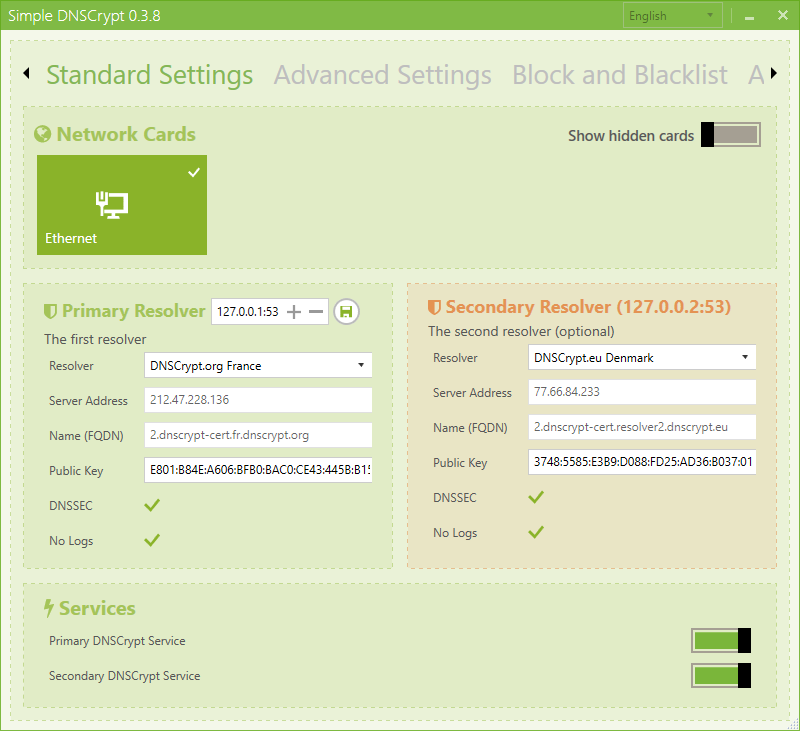
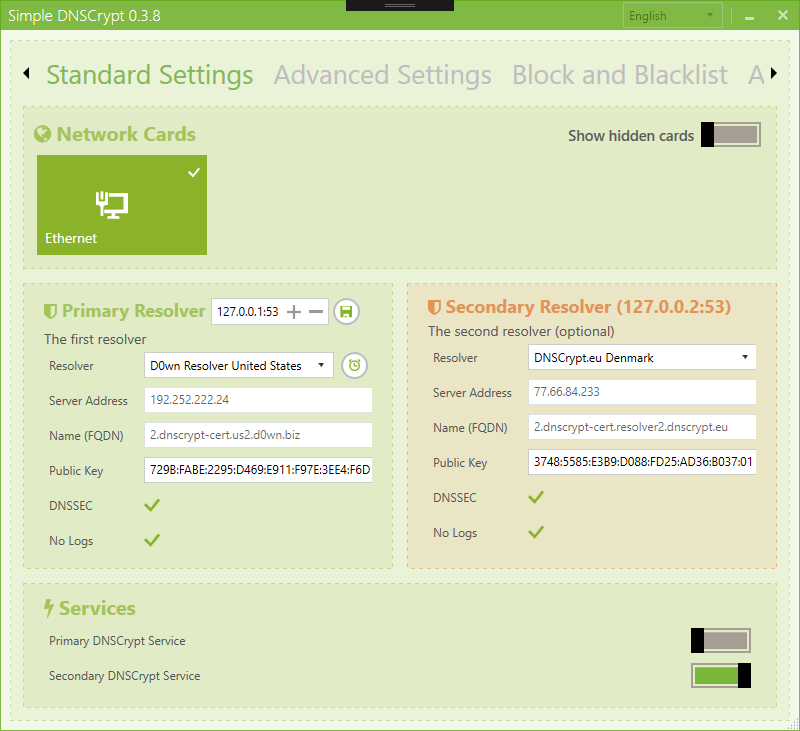
Add analyse option

diff --git a/SimpleDnsCrypt/Views/MainView.xaml b/SimpleDnsCrypt/Views/MainView.xaml
@@ -253,15 +253,27 @@
                                                        VerticalAlignment="Center"
                                                        HorizontalAlignment="Left">
                                                 </Label>
-                                                <ComboBox Grid.Row="0" Grid.Column="1" Width="230"
+                                                <ComboBox Grid.Row="0" Grid.Column="1" Width="190"
                                                           ToolTip="{Binding PrimaryResolver.FullName}"
                                                           ItemsSource="{Binding Resolvers}"
                                                           SelectedItem="{Binding PrimaryResolver}"
-                                                          IsEnabled="True"
-                                                          DisplayMemberPath="FullName"
+                                                          IsEnabled="{Binding IsAnalysing, Converter={StaticResource ReverseBoolToEnabledConverter}}"
+                                                          DisplayMemberPath="DisplayName"
                                                           Margin="0"
                                                           SelectedIndex="-1"
                                                           VerticalAlignment="Center" HorizontalAlignment="Left" />
+                                                <Button Background="#FFFFFFFF" Grid.Column="1" Grid.Row="0" Height="35"
+                                                    Width="35" VerticalAlignment="Top" Cursor="Hand" IsEnabled="{Binding IsAnalysing, Converter={StaticResource ReverseBoolToEnabledConverter}}" 
+                                                    x:Name="AnalyseResolvers" HorizontalAlignment="Right"
+                                                    ToolTip="{lex:Loc Key=default_settings_analyse_button_tooltip}"
+                                                    Style="{DynamicResource MetroCircleButtonStyle}">
+                                                    <Rectangle Fill="#FF8ab329" Width="12" Height="12">
+                                                        <Rectangle.OpacityMask>
+                                                            <VisualBrush Visual="{DynamicResource appbar_clock}"
+                                                                         Stretch="Fill" />
+                                                        </Rectangle.OpacityMask>
+                                                    </Rectangle>
+                                                </Button>
                                                 <Label Foreground="#FF575757" Grid.Row="1" Grid.Column="0"
                                                        Content="{lex:Loc Key=default_settings_server_address}"
                                                        VerticalAlignment="Center"
@@ -396,8 +408,8 @@
                                                           ToolTip="{Binding SecondaryResolver.FullName}"
                                                           ItemsSource="{Binding Resolvers}"
                                                           SelectedItem="{Binding SecondaryResolver}"
-                                                          IsEnabled="True"
-                                                          DisplayMemberPath="FullName"
+                                                          IsEnabled="{Binding IsAnalysing, Converter={StaticResource ReverseBoolToEnabledConverter}}"
+                                                          DisplayMemberPath="DisplayName"
                                                           Margin="0"
                                                           SelectedIndex="-1"
                                                           VerticalAlignment="Center" HorizontalAlignment="Left" />
@@ -1396,4 +1408,4 @@
             </Border>
         </Grid>
     </ScrollViewer>
-</UserControl>
+</UserControl> 

diff --git a/SimpleDnsCrypt/Tools/AnalyseProxy.cs b/SimpleDnsCrypt/Tools/AnalyseProxy.cs
@@ -1,0 +1,124 @@
+using System;
+using System.Diagnostics;
+using System.Text;
+using DNS.Client;
+using DNS.Protocol;
+using Helper;
+using SimpleDnsCrypt.Models;
+using Sodium;
+
+namespace SimpleDnsCrypt.Tools
+{
+	public class Certificate
+	{
+		public byte[] MagicQuery { get; set; }
+		public int Serial { get; set; }
+		public DateTime TsBegin { get; set; }
+		public DateTime TsEnd { get; set; }
+		public bool Valid { get; set; }
+	}
+
+	public class DnsCryptProxyEntryExtra
+	{
+		public Certificate Certificate { get; set; }
+		public bool Succeeded { get; set; }
+		public long ResponseTime { get; set; }
+	}
+
+	public static class AnalyseProxy
+	{
+		public static DnsCryptProxyEntryExtra Analyse(DnsCryptProxyEntry dnsCryptProxyEntry)
+		{
+			var dnsCryptProxyEntryExtra = new DnsCryptProxyEntryExtra();
+			try
+			{
+				var address = "";
+				var port = 443;
+				if (dnsCryptProxyEntry.ResolverAddress.Contains(":"))
+				{
+					var t = dnsCryptProxyEntry.ResolverAddress.Split(':');
+					address = t[0];
+					port = Convert.ToInt32(t[1]);
+				}
+				else
+				{
+					address = dnsCryptProxyEntry.ResolverAddress;
+				}
+
+				var providerKey = Utilities.HexToBinary(dnsCryptProxyEntry.ProviderPublicKey);
+				var request = new ClientRequest(address, port);
+				request.Questions.Add(new Question(Domain.FromString(dnsCryptProxyEntry.ProviderName), RecordType.TXT));
+				request.RecursionDesired = true;
+				var sw = Stopwatch.StartNew();
+				var response = request.Resolve();
+				sw.Stop();
+				var data = response.AnswerRecords[0].Data;
+
+				if (Encoding.ASCII.GetString(ArrayHelper.SubArray(data, 0, 9)).Equals("|DNSC\0\u0001\0\0"))
+				{
+					var certificate = ExtractCertificate(ArrayHelper.SubArray(data, 9), providerKey);
+					if (certificate != null)
+					{
+						dnsCryptProxyEntryExtra.Certificate = certificate;
+						if (certificate.Valid)
+						{
+							dnsCryptProxyEntryExtra.Succeeded = true;
+						}
+						else
+						{
+							dnsCryptProxyEntryExtra.Succeeded = false;
+						}
+					}
+					else
+					{
+						dnsCryptProxyEntryExtra.Succeeded = false;
+					}
+				}
+				dnsCryptProxyEntryExtra.ResponseTime = sw.ElapsedMilliseconds;
+			}
+			catch (Exception)
+			{
+				dnsCryptProxyEntryExtra.Succeeded = false;
+			}
+			return dnsCryptProxyEntryExtra;
+		}
+
+		private static Certificate ExtractCertificate(byte[] data, byte[] providerKey)
+		{
+			var certificate = new Certificate();
+			if (data.Length != 116) return null;
+			certificate.MagicQuery = ArrayHelper.SubArray(data, 96, 8);
+			var serial = ArrayHelper.SubArray(data, 104, 4);
+			var tsBegin = ArrayHelper.SubArray(data, 108, 4);
+			var tsEnd = ArrayHelper.SubArray(data, 112, 4);
+
+			if (BitConverter.IsLittleEndian)
+			{
+				Array.Reverse(serial);
+				Array.Reverse(tsBegin);
+				Array.Reverse(tsEnd);
+			}
+			certificate.Serial = BitConverter.ToInt32(serial, 0);
+			certificate.TsBegin = UnixTimeStampToDateTime(BitConverter.ToInt32(tsBegin, 0));
+			certificate.TsEnd = UnixTimeStampToDateTime(BitConverter.ToInt32(tsEnd, 0));
+
+			try
+			{
+				var m = PublicKeyAuth.Verify(data, providerKey);
+				certificate.Valid = true;
+				return certificate;
+			}
+			catch (Exception)
+			{
+			}
+			return null;
+		}
+
+		private static DateTime UnixTimeStampToDateTime(double unixTimeStamp)
+		{
+			var dateTime = new DateTime(1970, 1, 1, 0, 0, 0, 0, DateTimeKind.Utc);
+			dateTime = dateTime.AddSeconds(unixTimeStamp).ToLocalTime();
+			return dateTime;
+		}
+	}
+}

diff --git a/SimpleDnsCrypt/ViewModels/MainViewModel.cs b/SimpleDnsCrypt/ViewModels/MainViewModel.cs
@@ -41,6 +41,7 @@ namespace SimpleDnsCrypt.ViewModels
 		private bool _isRefreshingResolverList;
 		private bool _isSecondaryResolverRunning;
 		private bool _isUninstallingServices;
+		private bool _isAnalysing;
 		private bool _isWorkingOnPrimaryService;
 		private bool _isWorkingOnSecondaryService;
 		private ObservableCollection<Language> _languages;
@@ -122,7 +123,8 @@ namespace SimpleDnsCrypt.ViewModels
 			_updateResolverListOnStart = _userData.UpdateResolverListOnStart;
 			_isWorkingOnPrimaryService = false;
 			_isWorkingOnSecondaryService = false;
-			
+			_isAnalysing = false;
+
 			LocalNetworkInterfaces = new CollectionViewSource {Source = _localNetworkInterfaces};
 			PrimaryDnsCryptProxyManager = new DnsCryptProxyManager(DnsCryptProxyType.Primary);
 			SecondaryDnsCryptProxyManager = new DnsCryptProxyManager(DnsCryptProxyType.Secondary);
@@ -492,6 +494,19 @@ namespace SimpleDnsCrypt.ViewModels
 		}
 
 		/// <summary>
+		///		
+		/// </summary>
+		public bool IsAnalysing
+		{
+			get { return _isAnalysing; }
+			set
+			{
+				_isAnalysing = value;
+				NotifyOfPropertyChange(() => IsAnalysing);
+			}
+		}
+
+		/// <summary>
 		///     Show or hide the progress bar for the primary resolver.
 		/// </summary>
 		public bool IsWorkingOnPrimaryService
@@ -826,6 +841,41 @@ namespace SimpleDnsCrypt.ViewModels
 				localNetworkInterface.UseDnsCrypt = status;
 			}
 			LoadNetworkCards();
+		}
+
+		/// <summary>
+		///		Get some extra information of the resolvers.
+		/// </summary>
+		/// <remarks>Note: no IPv6 support, for now.</remarks>
+		public async void AnalyseResolvers()
+		{
+			try
+			{
+				IsAnalysing = true;
+				await Task.Run(() =>
+				{
+					for (var r = 0; r < _resolvers.Count; r++)
+					{
+						var dnsCryptProxyEntryExtra = AnalyseProxy.Analyse(_resolvers[r]);
+						if (dnsCryptProxyEntryExtra != null)
+						{
+							_resolvers[r].Extra = dnsCryptProxyEntryExtra;
+							if (!dnsCryptProxyEntryExtra.Succeeded)
+							{
+								_resolvers.RemoveAt(r);
+							}
+						}
+					}
+					_resolvers.Sort((a, b) => a.Extra.ResponseTime.CompareTo(b.Extra.ResponseTime));
+				}).ConfigureAwait(false);
+				NotifyOfPropertyChange(() => Resolvers);
+				IsAnalysing = false;
+			}
+			catch (Exception)
+			{
+				IsAnalysing = false;
+			}
+			NotifyOfPropertyChange(() => Resolvers);
 		}
 
 		#region Helper

diff --git a/SimpleDnsCrypt/Models/DnsCryptProxyEntry.cs b/SimpleDnsCrypt/Models/DnsCryptProxyEntry.cs
@@ -1,4 +1,5 @@
 using Caliburn.Micro;
+using SimpleDnsCrypt.Tools;
 
 namespace SimpleDnsCrypt.Models
 {
@@ -81,5 +82,32 @@ namespace SimpleDnsCrypt.Models
 		///     The local port (not part of the CSV file).
 		/// </summary>
 		public int LocalPort { get; set; }
-	}
+
+		/// <summary>
+		/// Some optional data.
+		/// </summary>
+		public DnsCryptProxyEntryExtra Extra { get; set; }
+
+	    public string DisplayName
+	    {
+		    get
+		    {
+			    if (Extra != null)
+			    {
+				    if (DnssecValidation)
+				    {
+					    return string.Format("{0}ms - {1} [DNSSEC]", Extra.ResponseTime, FullName);
+				    }
+				    else
+				    {
+						return string.Format("{0}ms - {1}", Extra.ResponseTime, FullName);
+					}
+			    }
+			    else
+			    {
+				    return FullName;
+			    }
+		    }
+	    }
+    }
 }

diff --git a/SimpleDnsCrypt/Resources/Strings.Designer.cs b/SimpleDnsCrypt/Resources/Strings.Designer.cs
@@ -520,6 +520,15 @@ namespace SimpleDnsCrypt.Resources {
         }
         
         /// <summary>
+        ///   Looks up a localized string similar to Get some extra info about the resolvers.
+        /// </summary>
+        internal static string default_settings_analyse_button_tooltip {
+            get {
+                return ResourceManager.GetString("default_settings_analyse_button_tooltip", resourceCulture);
+            }
+        }
+        
+        /// <summary>
         ///   Looks up a localized string similar to DNSSEC.
         /// </summary>
         internal static string default_settings_dnssec {
